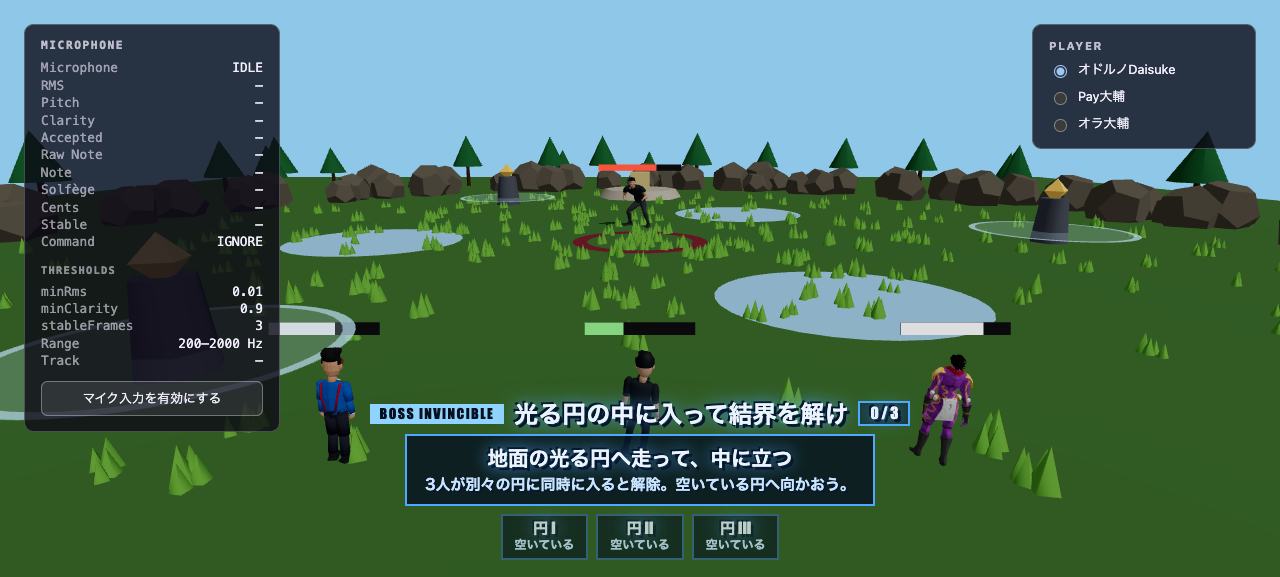
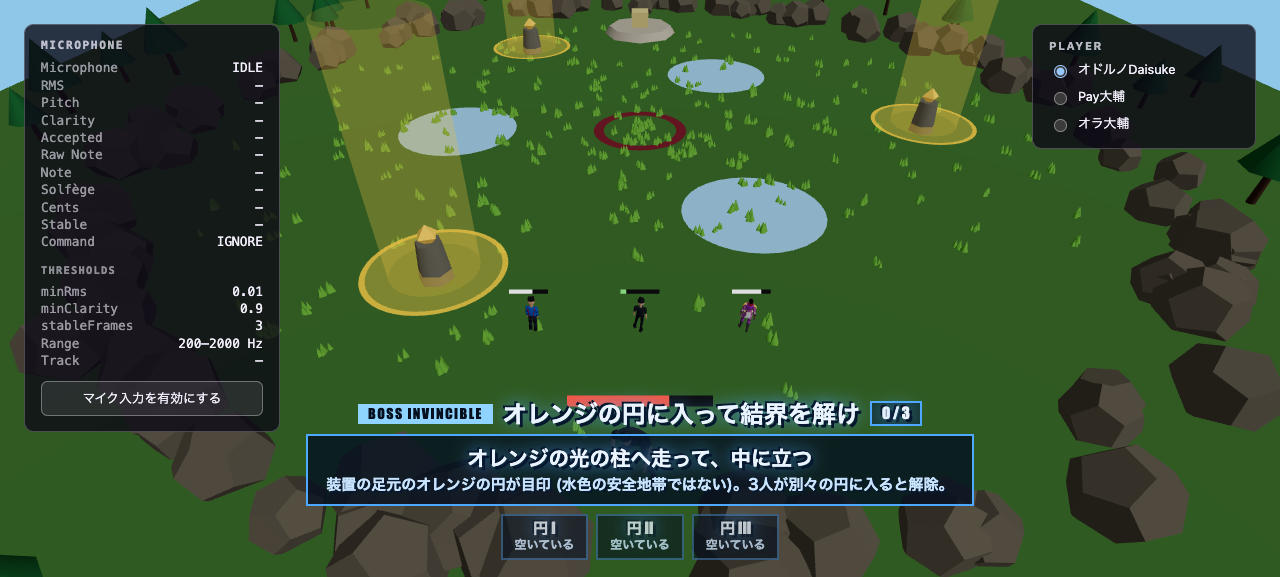
fix: 解除サークルを安全地帯と見分けられるようにする (#143)
「丸いところらしきところへ移動しても空いているまま」というフィードバックへの対応。

判定は正しく動いていた。原因は見た目で、同じアリーナに水色の円が2種類あり
区別が付かなかった。

- 安全地帯 (ArenaMarkers の SafeZoneMark): 水色 #9fd7ff・半径3.5・中心から11
- 解除サークル (BarrierCircles): 水色 #8fd4ff・半径3・中心から17

ほぼ同じ水色なので、安全地帯を解除サークルだと思って入ると当然埋まらない。
実際にアリーナには水色の円が6つ見えている状態だった。

- 解除サークルを琥珀 (#ffb020) にした。装置の頭 (DEVICE_TOP_COLOR #ffd166) と
  同系色にして、装置に属する円だと分かるようにする。
- 光の柱を足した。装置は半径17に散っており、地面の塗りだけでは遠くから
  どこへ向かえばいいか読めない。柱なら視線の高さにも掛かる。
- 案内の文言を「オレンジの円」へ変え、「水色の安全地帯ではない」と明示した。

diff --git a/src/rendering/boss/BarrierCircles.tsx b/src/rendering/boss/BarrierCircles.tsx
@@ -22,10 +22,17 @@ import {
  */
 const GROUND_OFFSET_Y = 0.45;
 
-/** 空いているサークル。入ってほしいので、埋まっている側より目立たせる。 */
-const IDLE_COLOR = '#8fd4ff';
+/**
+ * 空いているサークル。
+ *
+ * 安全地帯 (ArenaMarkers の SafeZoneMark、水色 #9fd7ff・半径3.5) が同じ
+ * アリーナに3つ出ており、水色で描くと見分けが付かない。実際に「入ったのに
+ * 埋まらない」と読まれた (Issue #143 のフィードバック)。装置の頭
+ * (DEVICE_TOP_COLOR #ffd166) と同じ琥珀にして、装置に属する円だと分かるようにする。
+ */
+const IDLE_COLOR = '#ffb020';
 
-/** 誰かが入っているサークル。達成済みなので落ち着いた緑にする。 */
+/** 誰かが入っているサークル。埋まったことを色で切り替える。 */
 const OCCUPIED_COLOR = '#7dffb0';
 
 export interface BarrierCirclesProps {
@@ -47,7 +54,24 @@ export function BarrierCircles({ barrier }: BarrierCirclesProps): React.JSX.Elem
               <meshBasicMaterial
                 color={occupied ? OCCUPIED_COLOR : IDLE_COLOR}
                 transparent
-                opacity={occupied ? 0.45 : 0.24}
+                opacity={occupied ? 0.5 : 0.42}
+                side={DoubleSide}
+                depthWrite={false}
+              />
+            </mesh>
+            {/*
+              光の柱。装置は半径17に散っていて、円の塗りだけでは遠くから
+              どこへ向かえばいいか読めない。柱は視線の高さにも掛かるので、
+              アリーナのどこに居ても「あそこへ走る」が決まる。
+            */}
+            <mesh position={[0, 5, 0]}>
+              <cylinderGeometry
+                args={[DEVICE_INTERACT_RANGE * 0.62, DEVICE_INTERACT_RANGE * 0.62, 10, 24, 1, true]}
+              />
+              <meshBasicMaterial
+                color={occupied ? OCCUPIED_COLOR : IDLE_COLOR}
+                transparent
+                opacity={occupied ? 0.2 : 0.16}
                 side={DoubleSide}
                 depthWrite={false}
               />

diff --git a/src/rendering/boss/BarrierOverlay.tsx b/src/rendering/boss/BarrierOverlay.tsx
@@ -70,10 +70,10 @@ function BarrierCutscene({ phase }: { phase: BarrierChallengeSnapshot['phase'] }
           <p className={styles.lead}>
             {phase === 'BARRIER_1'
               ? '堀大輔の周囲に結界が張られた。攻撃は通らない。'
-              : '再び結界。3人で散って光る円へ入れ。'}
+              : '再び結界。3人で散ってオレンジの円へ入れ。'}
           </p>
         </div>
-        <p className={styles.callToAction}>光る円の中に3人で入れ！</p>
+        <p className={styles.callToAction}>オレンジの円に3人で入れ！</p>
       </div>
     </section>
   );
@@ -104,18 +104,18 @@ function BarrierGuide({
     <div className={styles.guide}>
       <div className={styles.guideHeader}>
         <span className={styles.badge}>BOSS INVINCIBLE</span>
-        <strong className={styles.guideTitle}>光る円の中に入って結界を解け</strong>
+        <strong className={styles.guideTitle}>オレンジの円に入って結界を解け</strong>
         <span className={styles.progress} aria-label="埋まっている円">
           {challenge.occupiedCount} / {total}
         </span>
       </div>
 
       <div className={styles.role}>
-        <strong className={styles.roleAction}>地面の光る円へ走って、中に立つ</strong>
+        <strong className={styles.roleAction}>オレンジの光の柱へ走って、中に立つ</strong>
         <span className={styles.roleDetail}>
           {localCharacterId === 'PAY'
-            ? '3人が別々の円に同時に入ると解除。仲間へ空いている円を伝えよう。'
-            : '3人が別々の円に同時に入ると解除。空いている円へ向かおう。'}
+            ? '装置の足元のオレンジの円が目印 (水色の安全地帯ではない)。3人が別々の円に入ると解除。'
+            : '装置の足元のオレンジの円が目印 (水色の安全地帯ではない)。3人が別々の円に入ると解除。'}
         </span>
       </div>
 

diff --git a/src/rendering/boss/BarrierOverlay.test.tsx b/src/rendering/boss/BarrierOverlay.test.tsx
@@ -43,15 +43,15 @@ describe('BarrierOverlay', () => {
 
     expect(screen.getByText('BOSS INVINCIBLE')).toBeInTheDocument();
     expect(screen.getByText('「睡眠時間など4時間で十分だ！！！」')).toBeInTheDocument();
-    expect(screen.getByText('光る円の中に3人で入れ！')).toBeInTheDocument();
+    expect(screen.getByText('オレンジの円に3人で入れ！')).toBeInTheDocument();
   });
 
   it('演出のあとは「円に入る」という解除方法を出す', () => {
     render(<BarrierOverlay challenge={challenge()} localCharacterId="ODORUNO" />);
     skipCutscene();
 
-    expect(screen.getByText('光る円の中に入って結界を解け')).toBeInTheDocument();
-    expect(screen.getByText('地面の光る円へ走って、中に立つ')).toBeInTheDocument();
+    expect(screen.getByText('オレンジの円に入って結界を解け')).toBeInTheDocument();
+    expect(screen.getByText('オレンジの光の柱へ走って、中に立つ')).toBeInTheDocument();
   });
 
   it('埋まっている円の数を出す', () => {
@@ -74,14 +74,14 @@ describe('BarrierOverlay', () => {
     expect(screen.getByText('空いている')).toBeInTheDocument();
   });
 
-  it('役割によらず同じ解除方法を出す (Pay大輔だけ伝え方を添える)', () => {
+  it('役割によらず同じ解除方法を出す', () => {
     const { rerender } = render(
       <BarrierOverlay challenge={challenge()} localCharacterId="ODORUNO" />,
     );
     skipCutscene();
-    expect(screen.getByText(/空いている円へ向かおう/)).toBeInTheDocument();
+    expect(screen.getByText(/水色の安全地帯ではない/)).toBeInTheDocument();
 
     rerender(<BarrierOverlay challenge={challenge()} localCharacterId="PAY" />);
-    expect(screen.getByText(/仲間へ空いている円を伝えよう/)).toBeInTheDocument();
+    expect(screen.getByText(/水色の安全地帯ではない/)).toBeInTheDocument();
   });
 });
